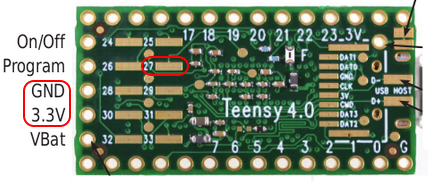
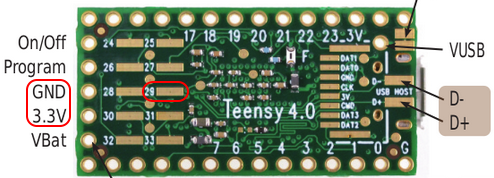
update teensy picture

diff --git a/README.md b/README.md
@@ -125,8 +125,8 @@ You will find a case build by croby-b [here](https://github.com/pierrotm777/ESP3
 With the version 1.8, it's now possible to read some information from the sound module Teensy over a wifi connection.  
 This feature use a little [ESP32C3 LCD board](https://www.google.com/search?client=firefox-b-d&q=ESP32C3+LCD).  
 This board must be connected:
-  - behind Teensy on pins ![+3,3v, GND and PIN 28](https://github.com/pierrotm777/ESP32-BURC-Screen/blob/main/Teensy_Serial7.png).  
-  - behind the ESP32 C3 on pins ![+3,3v, GND and PIN RX](https://github.com/pierrotm777/ESP32-BURC-Screen/blob/main/ESP32C3.png).  
+  - behind Teensy on pins **+3,3v, GND and PIN 29** ![](https://github.com/pierrotm777/ESP32-BURC-Screen/blob/main/Teensy_Serial7.png).  
+  - behind the ESP32 C3 on pins **+3,3v, GND and PIN RX** ![](https://github.com/pierrotm777/ESP32-BURC-Screen/blob/main/ESP32C3.png).  
 
 ## Firmware ESPNOW feature
 Use the same methode for the ESP32 screen.
